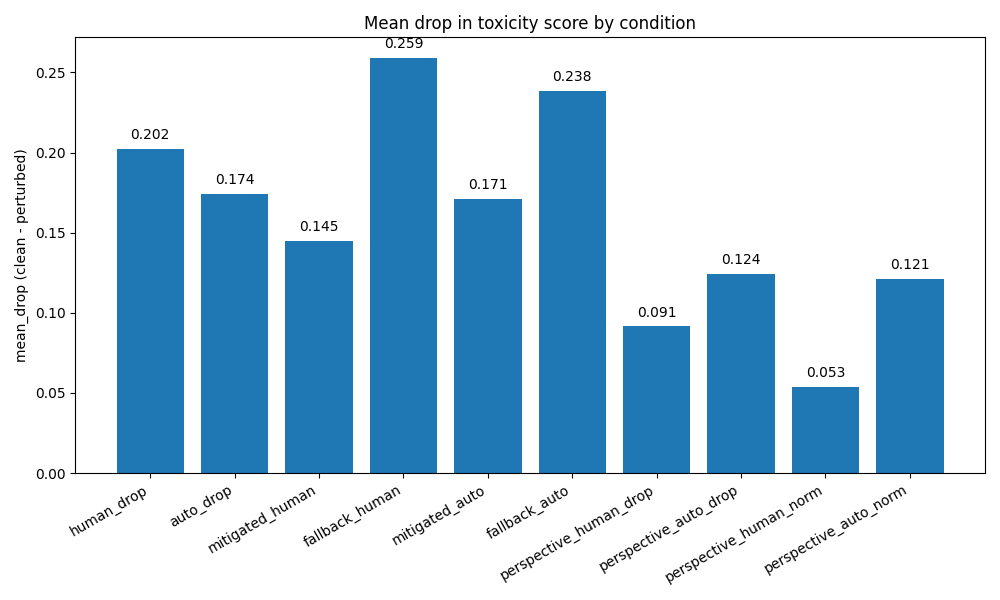
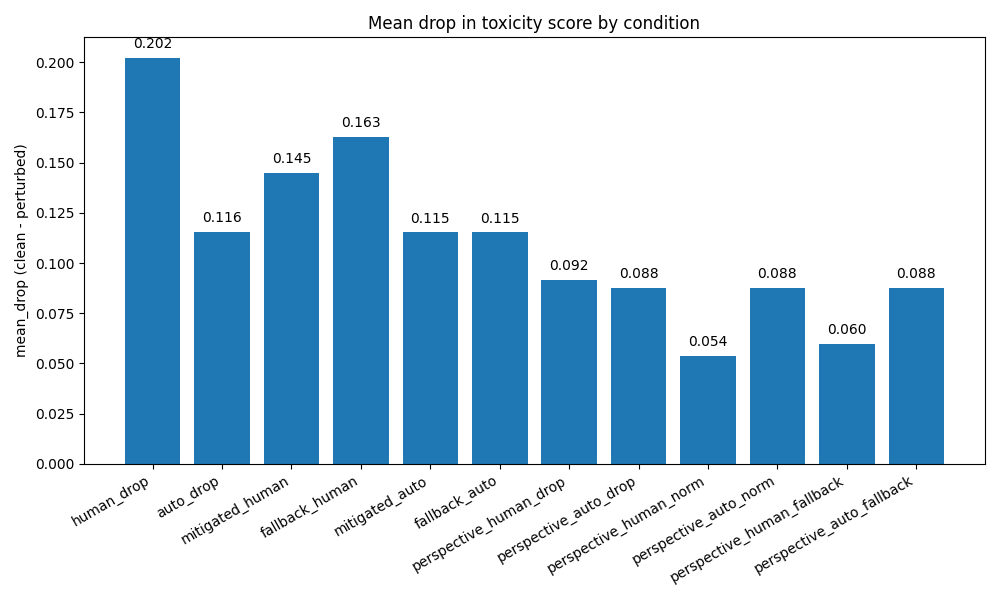
improved detection and fallback and added it to perspective api tests

diff --git a/mitigations/detection_fallback.py b/mitigations/detection_fallback.py
@@ -1,18 +1,78 @@
+import re
 from textblob import TextBlob
+import numpy as np
 
-def detect_and_fallback(texts, fallback_fn):
+LEETSPEAK_MAP = {
+    "0": "o", "1": "i", "3": "e", "4": "a", "5": "s", "7": "t", "@": "a", "$": "s"
+}
+
+def obfuscation_score(text):
+    """Returns a score (0–1+) estimating how obfuscated a text is."""
+    if not text:
+        return 0
+
+    length = max(len(text), 1)
+
+    # Ratio of non-alphabetic characters
+    non_alpha_ratio = sum(1 for c in text if not c.isalpha()) / length
+
+    # Leetspeak ratio
+    leet_ratio = sum(1 for c in text.lower() if c in LEETSPEAK_MAP) / length
+
+    # Repetition / stretched words
+    repetition = 1 if re.search(r"(.)\1{3,}", text) else 0
+
+    # Missing vowels (high consonant ratio)
+    vowels = sum(1 for c in text.lower() if c in "aeiou")
+    consonants = sum(1 for c in text.lower() if c.isalpha()) - vowels
+    consonant_ratio = consonants / max(consonants + vowels, 1)
+
+    # Combined score (0–1+)
+    score = (
+        0.4 * non_alpha_ratio +
+        0.3 * leet_ratio +
+        0.2 * consonant_ratio +
+        0.1 * repetition
+    )
+
+    return min(score, 1.5)
+
+
+def soft_normalise(text):
+    """A light normaliser that doesn't wipe structure."""
+    text = text.lower()
+    for k, v in LEETSPEAK_MAP.items():
+        text = text.replace(k, v)
+    text = re.sub(r"[^a-z0-9\s]", "", text)
+    return text
+
+
+def detect_and_fallback(texts, fallback_fn, threshold=0.35, correct_spelling=False):
     """
-    Detects likely obfuscated or low-confidence texts and applies a fallback mitigation.
+    Improved detection + fallback mitigation.
+    - Computes obfuscation score
+    - Applies light normalisation
+    - Uses fallback model only when needed
     """
-    mitigated = []
+    cleaned = []
+
     for text in texts:
-        # Ensure it's a string
         if not isinstance(text, str):
             text = str(text) if text is not None else ""
-        
-        blob = TextBlob(text)
-        corrected = blob.correct().string  # spell-correct (optional)
-        mitigated.append(corrected)
-    
-    # Run the fallback model (e.g., Detoxify) on the cleaned text
-    return fallback_fn(mitigated)
+
+        score = obfuscation_score(text)
+
+        # INITIAL normalisation
+        norm = soft_normalise(text)
+
+        # Optional: spell correction (slow)
+        if correct_spelling and score > threshold:
+            try:
+                norm = str(TextBlob(norm).correct())
+            except Exception:
+                pass  # fail-safe
+
+        cleaned.append(norm)
+
+    # Apply fallback model ONCE to the corrected texts
+    return fallback_fn(cleaned)

diff --git a/run.py b/run.py
@@ -57,16 +57,36 @@ def main():
         print("Applying normalisation mitigation (Perspective, human)...")
         persp_human_norm = evaluate_perspective(mitigated_human_texts)
 
+        print("Applying detection + fallback mitigation (Perspective, human)...")
+        persp_human_fallback = detect_and_fallback(
+            texts_human,
+            fallback_fn=evaluate_perspective
+        )
+
         print("Applying normalisation mitigation (Perspective, auto)...")
         persp_auto_norm = evaluate_perspective(mitigated_auto_texts)
+
+        print("Applying detection + fallback mitigation (Perspective, auto)...")
+        persp_auto_fallback = detect_and_fallback(
+            auto_texts,
+            fallback_fn=evaluate_perspective
+        )
+
 
         print("\nComparing Perspective API results...")
         persp_results = {
             "perspective_human_drop": compare_toxicity_scores(persp_clean, persp_human),
             "perspective_auto_drop": compare_toxicity_scores(persp_clean, persp_auto),
+
+            # Normalisation mitigation
             "perspective_human_norm": compare_toxicity_scores(persp_clean, persp_human_norm),
             "perspective_auto_norm": compare_toxicity_scores(persp_clean, persp_auto_norm),
+
+            # Detection + fallback mitigation
+            "perspective_human_fallback": compare_toxicity_scores(persp_clean, persp_human_fallback),
+            "perspective_auto_fallback": compare_toxicity_scores(persp_clean, persp_auto_fallback),
         }
+
     except Exception as e:
         print(f"\n⚠ Skipping Perspective API analysis due to error: {e}")
         persp_results = {}
